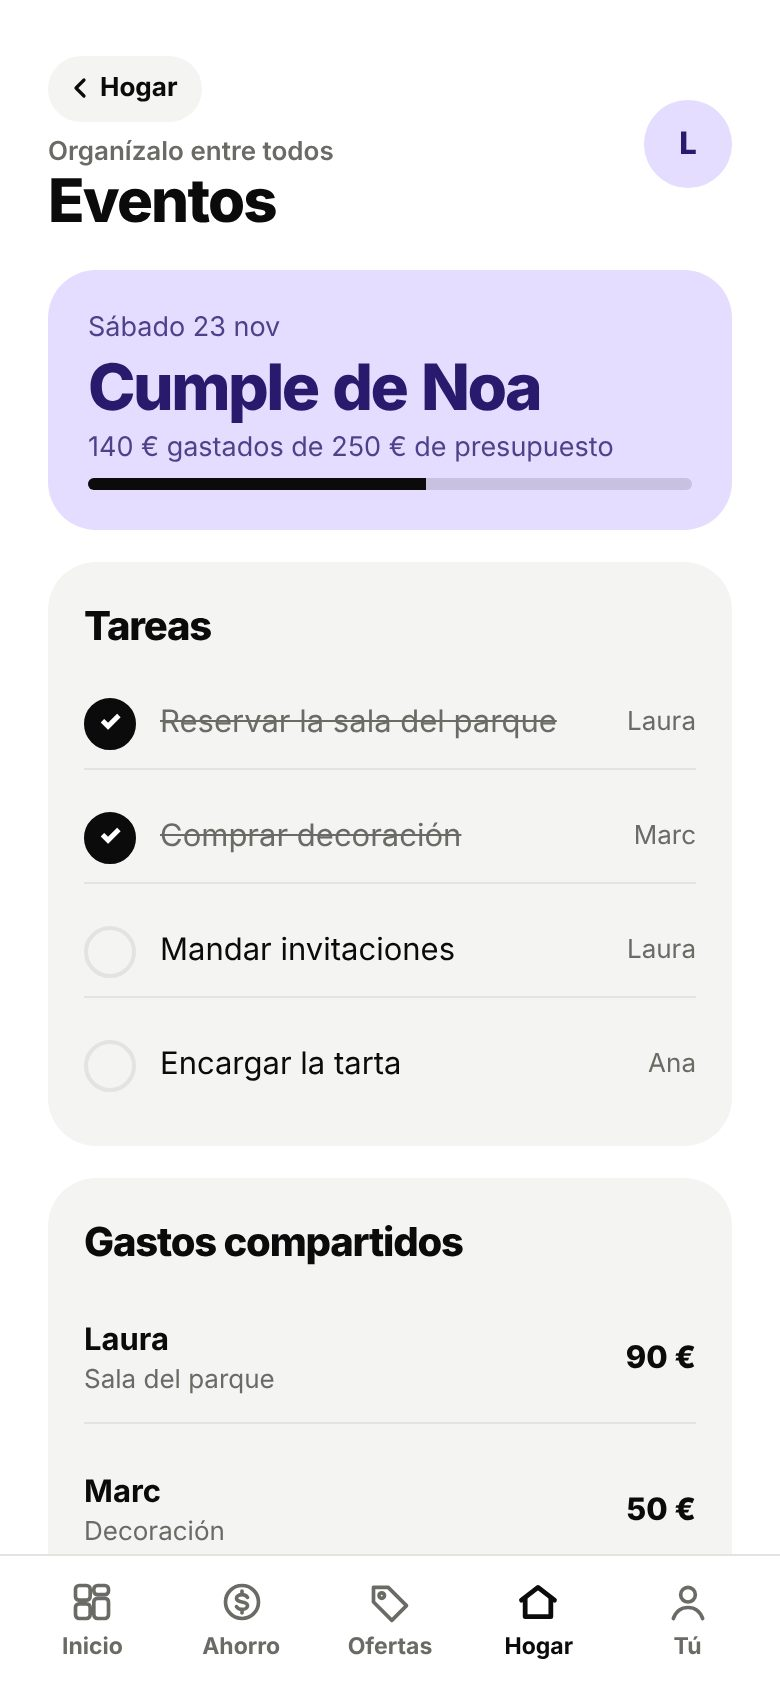
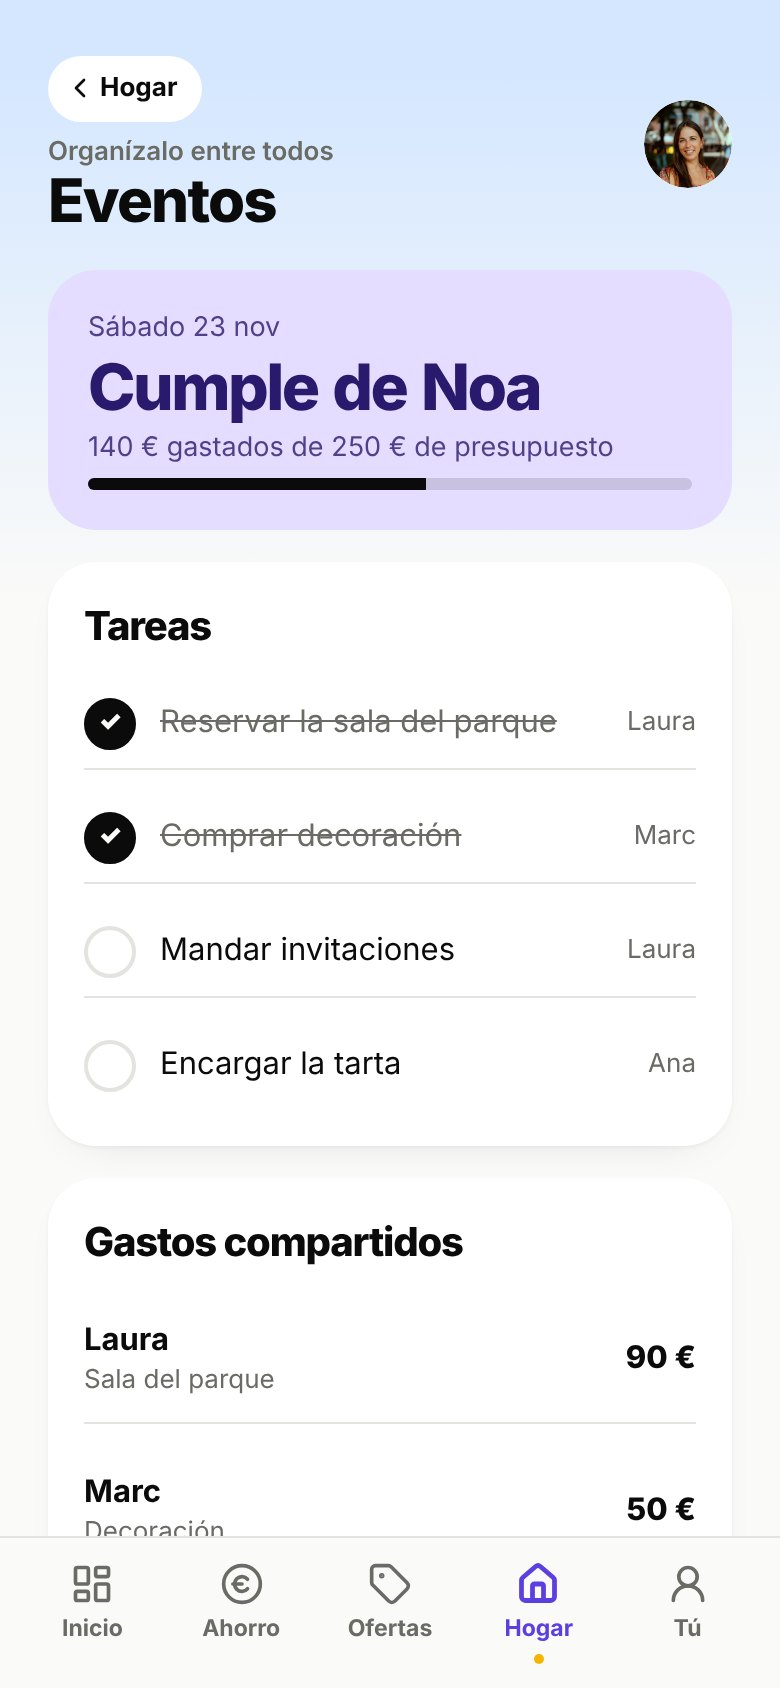
Web con la imagen nueva: pantallas reales de la app actualizadas, iconos Lucide en tarjetas y consejos, colores del sistema de diseño
Claude-Session: https://claude.ai/code/session_01F6sCRFry7y6VH7Km1yR5w5

diff --git a/web/index.html b/web/index.html
@@ -9,12 +9,14 @@
 <title>Viwai · Lo que ahorras, lo vives</title>
 <link rel="preconnect" href="https://fonts.googleapis.com">
 <link rel="stylesheet" href="https://fonts.googleapis.com/css2?family=Plus+Jakarta+Sans:wght@400;500;700;800&display=swap">
+<link rel="stylesheet" href="/diseno/tokens.css">
+<script src="/diseno/iconos.js"></script>
 <style>
 /* Estilo de los anuncios: bandas a sangre de color pastel, titulares grandes y pantallas reales de la app */
 :root{
   --bg:#FAFAF8; --ink:#0F0F0E; --muted:#55544F; --line:#E4E3DE; --surface:#FFFFFF;
-  --peach:#FFD9C7; --lav:#E4DDFF; --mint:#CDEFDD; --sky:#D5E7FF; --butter:#FFEFB5; --cream:#FFF4C9;
-  --brand:#7B5CFF; --brand-strong:#5B3FE0; --wave:#7B5CFF; --gold:#F5B400; --p-ink:#0F0F0E;
+  --peach:#FFD9C7; --lav:var(--vw-lavanda); --mint:var(--vw-menta); --sky:var(--vw-cielo); --butter:#FFEFB5; --cream:var(--vw-mantequilla);
+  --brand:#7B5CFF; --brand-strong:var(--vw-lila-app); --wave:#7B5CFF; --gold:var(--vw-oro); --p-ink:#0F0F0E;
   --f:"Plus Jakarta Sans",system-ui,-apple-system,"Segoe UI",sans-serif;
 }
 *{box-sizing:border-box}
@@ -52,7 +54,10 @@ header .in{display:flex;justify-content:space-between;align-items:center;padding
 .duo .phone:last-child{margin-top:64px}
 
 .mods{display:grid;grid-template-columns:repeat(4,1fr);gap:14px;margin-top:40px}
-.mod{border-radius:26px;padding:22px;color:var(--p-ink);display:flex;flex-direction:column;gap:6px;min-width:0}
+.mod{border-radius:26px;padding:22px;color:var(--p-ink);display:flex;flex-direction:column;gap:6px;min-width:0;position:relative;overflow:hidden;transition:transform .2s,box-shadow .2s}
+.mod:hover{transform:translateY(-3px);box-shadow:0 18px 36px -24px rgba(30,20,60,.35)}
+.mod .mi{width:46px;height:46px;border-radius:15px;background:rgba(255,255,255,.65);display:grid;place-items:center;margin-bottom:8px}.mod .mi .vw-ico{width:23px;height:23px}
+.mod:after{content:"";position:absolute;right:-40px;top:-40px;width:130px;height:130px;border-radius:50%;background:radial-gradient(circle,rgba(255,255,255,.5),transparent 70%);pointer-events:none}
 .mod p{font-size:15px;opacity:.85}
 .vals{grid-template-columns:repeat(3,1fr)}
 .vals4{grid-template-columns:repeat(4,1fr)}
@@ -126,18 +131,18 @@ footer a{color:var(--brand-strong)}
 <section class="band" id="casas"><div class="in">
   <span class="eye">Para cualquier casa</span><h2>Vivas sola, en pareja, con peques o compartiendo piso.</h2>
   <div class="mods vals4">
-    <div class="mod sky"><h3>Sola</h3><p>Paga solo la luz que gastas y no te pierdas ninguna ayuda.</p><span class="f">Facturas y ayudas</span></div>
-    <div class="mod lav"><h3>En pareja</h3><p>El menú, la compra y la casa organizados entre los dos.</p><span class="f">Menú y casa compartida</span></div>
-    <div class="mod mint"><h3>Con peques</h3><p>Su armario, su talla y las tareas repartidas con premios.</p><span class="f">Armario y tareas</span></div>
-    <div class="mod peach"><h3>Piso compartido</h3><p>Gastos, tareas y calendario a medias, sin discusiones.</p><span class="f">Casa compartida</span></div>
+    <div class="mod sky"><span class="mi"><svg data-ico="persona"></svg></span><h3>Sola</h3><p>Paga solo la luz que gastas y no te pierdas ninguna ayuda.</p><span class="f">Facturas y ayudas</span></div>
+    <div class="mod lav"><span class="mi"><svg data-ico="corazon"></svg></span><h3>En pareja</h3><p>El menú, la compra y la casa organizados entre los dos.</p><span class="f">Menú y casa compartida</span></div>
+    <div class="mod mint"><span class="mi"><svg data-ico="bebe"></svg></span><h3>Con peques</h3><p>Su armario, su talla y las tareas repartidas con premios.</p><span class="f">Armario y tareas</span></div>
+    <div class="mod peach"><span class="mi"><svg data-ico="familia"></svg></span><h3>Piso compartido</h3><p>Gastos, tareas y calendario a medias, sin discusiones.</p><span class="f">Casa compartida</span></div>
   </div>
 </div></section>
 <section class="band" id="valor"><div class="in">
   <span class="eye">Por qué desde Viwai</span><h2>El mismo precio. Y una parte vuelve a ti.</h2>
   <div class="mods vals">
-    <div class="mod cream"><h3>Hasta un 3 % de vuelta</h3><p>Compras en la tienda al mismo precio y con sus rebajas, y te devolvemos una parte de lo que gastas.</p><span class="f">En las tiendas que lo permiten</span></div>
-    <div class="mod peach"><h3>Te decimos si pagas de más</h3><p>Miramos tus facturas de luz, gas y fibra con tu consumo real. Es donde más se ahorra al año.</p><span class="f">Y las ayudas que te tocan</span></div>
-    <div class="mod mint"><h3>Ofertas que te sirven</h3><p>En la talla de cada peque, en tu súper y en lo que de verdad usas. Sin buscar en diez webs.</p><span class="f">Elegidas para tu casa</span></div>
+    <div class="mod cream"><span class="mi"><svg data-ico="hucha"></svg></span><h3>Hasta un 3 % de vuelta</h3><p>Compras en la tienda al mismo precio y con sus rebajas, y te devolvemos una parte de lo que gastas.</p><span class="f">En las tiendas que lo permiten</span></div>
+    <div class="mod peach"><span class="mi"><svg data-ico="facturas"></svg></span><h3>Te decimos si pagas de más</h3><p>Miramos tus facturas de luz, gas y fibra con tu consumo real. Es donde más se ahorra al año.</p><span class="f">Y las ayudas que te tocan</span></div>
+    <div class="mod mint"><span class="mi"><svg data-ico="ofertas"></svg></span><h3>Ofertas que te sirven</h3><p>En la talla de cada peque, en tu súper y en lo que de verdad usas. Sin buscar en diez webs.</p><span class="f">Elegidas para tu casa</span></div>
   </div>
 </div></section>
 <section class="scene peach flip" id="facturas"><div class="in">
@@ -163,14 +168,14 @@ footer a{color:var(--brand-strong)}
 <section class="band"><div class="in">
   <span class="eye">Todo en una app</span><h2>Todo lo que te hace ahorrar, en un solo sitio.</h2>
   <div class="mods">
-    <div class="mod" style="background:var(--lav)"><h3>Menú y compra</h3><p>Planificas la semana, compras lo justo y tiras menos comida.</p><span class="f">Con las ofertas de tu súper</span></div>
-    <div class="mod" style="background:var(--sky)"><h3>Gasolina</h3><p>Ves qué gasolinera es la más barata cerca antes de repostar.</p><span class="f">Con los precios oficiales del día</span></div>
-    <div class="mod" style="background:var(--peach)"><h3>Armario</h3><p>Sabes qué tiene cada uno y su talla: no compras repetido y vendes lo que se queda pequeño.</p><span class="f">Y le das una segunda vida</span></div>
-    <div class="mod" style="background:var(--mint)"><h3>Mantenimiento</h3><p>Filtros, caldera, revisiones del coche a tiempo. Cuidar las cosas evita averías caras.</p><span class="f">Con lo que tienes en casa</span></div>
-    <div class="mod" style="background:var(--butter)"><h3>Papeles y fechas</h3><p>Devoluciones, garantías y renovaciones con aviso antes de que caduquen.</p><span class="f">Ni un plazo perdido</span></div>
-    <div class="mod" style="background:var(--peach)"><h3>Facturas</h3><p>Luz, gas, fibra y móvil comparados con tu consumo real.</p><span class="f">Con tu consumo de Datadis</span></div>
-    <div class="mod" style="background:var(--mint)"><h3>Ayudas</h3><p>Bono social, ayudas por hijos, deducciones: las que te tocan según tu perfil.</p><span class="f">Catálogo por comunidad</span></div>
-    <div class="mod" style="background:var(--sky)"><h3>Ofertas</h3><p>Súper, moda, hogar y planes, con lo que te devolvemos al lado.</p><span class="f">Reembolso tienda a tienda</span></div>
+    <div class="mod" style="background:var(--lav)"><span class="mi"><svg data-ico="menu"></svg></span><h3>Menú y compra</h3><p>Planificas la semana, compras lo justo y tiras menos comida.</p><span class="f">Con las ofertas de tu súper</span></div>
+    <div class="mod" style="background:var(--sky)"><span class="mi"><svg data-ico="gasolina"></svg></span><h3>Gasolina</h3><p>Ves qué gasolinera es la más barata cerca antes de repostar.</p><span class="f">Con los precios oficiales del día</span></div>
+    <div class="mod" style="background:var(--peach)"><span class="mi"><svg data-ico="armario"></svg></span><h3>Armario</h3><p>Sabes qué tiene cada uno y su talla: no compras repetido y vendes lo que se queda pequeño.</p><span class="f">Y le das una segunda vida</span></div>
+    <div class="mod" style="background:var(--mint)"><span class="mi"><svg data-ico="mantenimiento"></svg></span><h3>Mantenimiento</h3><p>Filtros, caldera, revisiones del coche a tiempo. Cuidar las cosas evita averías caras.</p><span class="f">Con lo que tienes en casa</span></div>
+    <div class="mod" style="background:var(--butter)"><span class="mi"><svg data-ico="documentos"></svg></span><h3>Papeles y fechas</h3><p>Devoluciones, garantías y renovaciones con aviso antes de que caduquen.</p><span class="f">Ni un plazo perdido</span></div>
+    <div class="mod" style="background:var(--peach)"><span class="mi"><svg data-ico="facturas"></svg></span><h3>Facturas</h3><p>Luz, gas, fibra y móvil comparados con tu consumo real.</p><span class="f">Con tu consumo de Datadis</span></div>
+    <div class="mod" style="background:var(--mint)"><span class="mi"><svg data-ico="ayudas"></svg></span><h3>Ayudas</h3><p>Bono social, ayudas por hijos, deducciones: las que te tocan según tu perfil.</p><span class="f">Catálogo por comunidad</span></div>
+    <div class="mod" style="background:var(--sky)"><span class="mi"><svg data-ico="ofertas"></svg></span><h3>Ofertas</h3><p>Súper, moda, hogar y planes, con lo que te devolvemos al lado.</p><span class="f">Reembolso tienda a tienda</span></div>
   </div>
 </div></section>
 <section class="scene peach"><div class="in">

diff --git a/web/black-friday/index.html b/web/black-friday/index.html
@@ -10,6 +10,8 @@
 <meta property="og:description" content="Cada descuento comprobado contra el precio más bajo de los 30 días anteriores.">
 <link rel="preconnect" href="https://fonts.googleapis.com">
 <link rel="stylesheet" href="https://fonts.googleapis.com/css2?family=Plus+Jakarta+Sans:wght@400;500;700;800&display=swap">
+<link rel="stylesheet" href="/diseno/tokens.css">
+<script src="/diseno/iconos.js"></script>
 <style>
 /* Estilo de los anuncios: bandas a sangre de color pastel, titulares grandes y pantallas reales de la app */
 :root{
@@ -139,6 +141,8 @@ footer a{color:var(--brand-strong)}
 
 [hidden]{display:none!important}
 .menu{display:flex;gap:18px;margin-left:auto;margin-right:16px;align-items:center}.menu a{color:inherit;font-weight:700;text-decoration:none;font-size:15px}.menu a:hover{text-decoration:underline}.menu a[aria-current]{color:var(--brand-strong,#5B3FE0)}@media(max-width:520px){.menu{gap:12px;margin-right:10px}.menu a{font-size:14px}.menu .bfl{display:none}}
+.ti{width:42px;height:42px;border-radius:14px;background:rgba(255,255,255,.7);display:grid;place-items:center;margin-bottom:6px}.tienda .ti{background:var(--vw-lavanda-suave);color:var(--vw-lila-app)}
+.tienda{transition:transform .2s}.tienda:hover{transform:translateY(-3px)}
 </style>
 </head>
 <body>
@@ -165,10 +169,10 @@ footer a{color:var(--brand-strong)}
 <section class="band"><div class="in">
   <div class="sec-h"><span class="eyebrow">Que no te la cuelen</span><h2>Cómo detectar un falso descuento</h2></div>
   <div class="trucos">
-    <div class="truco peach"><b>Mira el precio de antes</b>Por ley, el descuento se calcula sobre el precio más bajo de los 30 días anteriores. Si una tienda sube el precio en octubre para «rebajarlo» en noviembre, no es una rebaja.</div>
-    <div class="truco butter"><b>Desconfía del reloj</b>Las cuentas atrás y los «quedan 2» meten prisa. Si lo necesitas, seguirá teniendo sentido mañana.</div>
-    <div class="truco mint"><b>Compara el envío</b>Un 10 % menos no sirve si luego pagas 6 € de envío o devolver cuesta dinero.</div>
-    <div class="truco sky"><b>Hazte una lista antes</b>Apunta lo que de verdad te hace falta en casa. Lo demás no es ahorro: es gasto rebajado.</div>
+    <div class="truco peach"><span class="ti"><svg data-ico="buscar"></svg></span><b>Mira el precio de antes</b>Por ley, el descuento se calcula sobre el precio más bajo de los 30 días anteriores. Si una tienda sube el precio en octubre para «rebajarlo» en noviembre, no es una rebaja.</div>
+    <div class="truco butter"><span class="ti"><svg data-ico="reloj"></svg></span><b>Desconfía del reloj</b>Las cuentas atrás y los «quedan 2» meten prisa. Si lo necesitas, seguirá teniendo sentido mañana.</div>
+    <div class="truco mint"><span class="ti"><svg data-ico="camion"></svg></span><b>Compara el envío</b>Un 10 % menos no sirve si luego pagas 6 € de envío o devolver cuesta dinero.</div>
+    <div class="truco sky"><span class="ti"><svg data-ico="tareas"></svg></span><b>Hazte una lista antes</b>Apunta lo que de verdad te hace falta en casa. Lo demás no es ahorro: es gasto rebajado.</div>
   </div>
 </div></section>
 
@@ -207,7 +211,7 @@ footer a{color:var(--brand-strong)}
   ]);
   const nombre = id => (tiendas.find(t => t.id === id) || {}).nombre || id;
   const tt = ofertas.filter(o => o.categoria === "tienda");
-  document.getElementById("tiendas").innerHTML = tt.map(o => `<a class="tienda" href="${esc(o.url)}" data-tienda="${esc(o.tienda_id)}" target="_blank" rel="sponsored noopener"><b>${esc(nombre(o.tienda_id))}</b><span>${esc(o.titulo)}</span><i>Ver ofertas →</i></a>`).join("");
+  document.getElementById("tiendas").innerHTML = tt.map(o => `<a class="tienda" href="${esc(o.url)}" data-tienda="${esc(o.tienda_id)}" target="_blank" rel="sponsored noopener"><span class="ti">${viwaiIcono("tienda")}</span><b>${esc(nombre(o.tienda_id))}</b><span>${esc(o.titulo)}</span><i>Ver ofertas →</i></a>`).join("");
   const ch = ofertas.filter(o => o.categoria !== "tienda");
   if (!ch.length) { document.getElementById("vacio").hidden = false; return; }
   document.getElementById("chollos").innerHTML = ch.map(o => {

diff --git a/web/ofertas/index.html b/web/ofertas/index.html
@@ -8,6 +8,8 @@
 <title>Ofertas de todas las tiendas · Viwai</title>
 <link rel="preconnect" href="https://fonts.googleapis.com">
 <link rel="stylesheet" href="https://fonts.googleapis.com/css2?family=Plus+Jakarta+Sans:wght@400;500;700;800&display=swap">
+<link rel="stylesheet" href="/diseno/tokens.css">
+<script src="/diseno/iconos.js"></script>
 <style>
 /* Estilo de los anuncios: bandas a sangre de color pastel, titulares grandes y pantallas reales de la app */
 :root{
@@ -216,7 +218,7 @@ async function busca(anadir = false) {
   $("res").textContent = total ? `${Number(total).toLocaleString("es-ES")} productos` : "";
   const v = $("vacio");
   v.hidden = !!total;
-  v.innerHTML = est.q ? `No hemos encontrado «${esc(est.q)}» en las tiendas asociadas. Prueba con otra palabra.` : "Estamos cargando el catálogo de las tiendas. Vuelve mañana.";
+  v.innerHTML = est.q ? `No hemos encontrado «${esc(est.q)}» en las tiendas asociadas. Prueba con otra palabra.` : `<span style="display:flex;gap:14px;align-items:center">${viwaiIcono("tienda")}<span><b>Estamos preparando el catálogo.</b><br>Las ofertas aparecerán aquí en cuanto las tiendas nos aprueben. Mientras, mira los <a href="/black-friday/">chollos de Black Friday</a>.</span></span>`;
   const u = new URLSearchParams(); if (est.q) u.set("q", est.q); if (est.cat) u.set("cat", est.cat);
   history.replaceState(null, "", u.toString() ? "?" + u : location.pathname);
 }

diff --git a/web/legal/privacidad.html b/web/legal/privacidad.html
@@ -2,6 +2,8 @@
 <html lang="es"><head><meta charset="utf-8"><meta name="viewport" content="width=device-width, initial-scale=1"><meta name="robots" content="noindex, nofollow, noarchive">
 <title>Política de privacidad · Viwai</title><link rel="icon" href="/favicon.svg" type="image/svg+xml">
 <link rel="preconnect" href="https://fonts.googleapis.com"><link rel="stylesheet" href="https://fonts.googleapis.com/css2?family=Plus+Jakarta+Sans:wght@400;600;800&display=swap">
+<link rel="stylesheet" href="/diseno/tokens.css">
+<script src="/diseno/iconos.js"></script>
 <style>:root{--bg:#FAFAF8;--ink:#0F0F0E;--muted:#55544F;--line:#E4E3DE;--lav:#E4DDFF;--brand:#5B3FE0;--wave:#7B5CFF}
 @media (prefers-color-scheme:dark){:root{--bg:#111110;--ink:#F4F3EF;--muted:#A9A8A2;--line:#2B2A27;--lav:#241E3D;--brand:#B9A8FF;--wave:#B9A8FF;color-scheme:dark}}
 *{box-sizing:border-box}body{background:var(--bg);color:var(--ink);font:17px/1.65 "Plus Jakarta Sans",system-ui,-apple-system,"Segoe UI",sans-serif;margin:0}

diff --git a/web/legal/cookies.html b/web/legal/cookies.html
@@ -2,6 +2,8 @@
 <html lang="es"><head><meta charset="utf-8"><meta name="viewport" content="width=device-width, initial-scale=1"><meta name="robots" content="noindex, nofollow, noarchive">
 <title>Política de cookies · Viwai</title><link rel="icon" href="/favicon.svg" type="image/svg+xml">
 <link rel="preconnect" href="https://fonts.googleapis.com"><link rel="stylesheet" href="https://fonts.googleapis.com/css2?family=Plus+Jakarta+Sans:wght@400;600;800&display=swap">
+<link rel="stylesheet" href="/diseno/tokens.css">
+<script src="/diseno/iconos.js"></script>
 <style>:root{--bg:#FAFAF8;--ink:#0F0F0E;--muted:#55544F;--line:#E4E3DE;--lav:#E4DDFF;--brand:#5B3FE0;--wave:#7B5CFF}
 @media (prefers-color-scheme:dark){:root{--bg:#111110;--ink:#F4F3EF;--muted:#A9A8A2;--line:#2B2A27;--lav:#241E3D;--brand:#B9A8FF;--wave:#B9A8FF;color-scheme:dark}}
 *{box-sizing:border-box}body{background:var(--bg);color:var(--ink);font:17px/1.65 "Plus Jakarta Sans",system-ui,-apple-system,"Segoe UI",sans-serif;margin:0}

diff --git a/web/legal/condiciones.html b/web/legal/condiciones.html
@@ -2,6 +2,8 @@
 <html lang="es"><head><meta charset="utf-8"><meta name="viewport" content="width=device-width, initial-scale=1"><meta name="robots" content="noindex, nofollow, noarchive">
 <title>Condiciones de uso · Viwai</title><link rel="icon" href="/favicon.svg" type="image/svg+xml">
 <link rel="preconnect" href="https://fonts.googleapis.com"><link rel="stylesheet" href="https://fonts.googleapis.com/css2?family=Plus+Jakarta+Sans:wght@400;600;800&display=swap">
+<link rel="stylesheet" href="/diseno/tokens.css">
+<script src="/diseno/iconos.js"></script>
 <style>:root{--bg:#FAFAF8;--ink:#0F0F0E;--muted:#55544F;--line:#E4E3DE;--lav:#E4DDFF;--brand:#5B3FE0;--wave:#7B5CFF}
 @media (prefers-color-scheme:dark){:root{--bg:#111110;--ink:#F4F3EF;--muted:#A9A8A2;--line:#2B2A27;--lav:#241E3D;--brand:#B9A8FF;--wave:#B9A8FF;color-scheme:dark}}
 *{box-sizing:border-box}body{background:var(--bg);color:var(--ink);font:17px/1.65 "Plus Jakarta Sans",system-ui,-apple-system,"Segoe UI",sans-serif;margin:0}

diff --git a/web/legal/aviso-legal.html b/web/legal/aviso-legal.html
@@ -2,6 +2,8 @@
 <html lang="es"><head><meta charset="utf-8"><meta name="viewport" content="width=device-width, initial-scale=1"><meta name="robots" content="noindex, nofollow, noarchive">
 <title>Aviso legal · Viwai</title><link rel="icon" href="/favicon.svg" type="image/svg+xml">
 <link rel="preconnect" href="https://fonts.googleapis.com"><link rel="stylesheet" href="https://fonts.googleapis.com/css2?family=Plus+Jakarta+Sans:wght@400;600;800&display=swap">
+<link rel="stylesheet" href="/diseno/tokens.css">
+<script src="/diseno/iconos.js"></script>
 <style>:root{--bg:#FAFAF8;--ink:#0F0F0E;--muted:#55544F;--line:#E4E3DE;--lav:#E4DDFF;--brand:#5B3FE0;--wave:#7B5CFF}
 @media (prefers-color-scheme:dark){:root{--bg:#111110;--ink:#F4F3EF;--muted:#A9A8A2;--line:#2B2A27;--lav:#241E3D;--brand:#B9A8FF;--wave:#B9A8FF;color-scheme:dark}}
 *{box-sizing:border-box}body{background:var(--bg);color:var(--ink);font:17px/1.65 "Plus Jakarta Sans",system-ui,-apple-system,"Segoe UI",sans-serif;margin:0}
